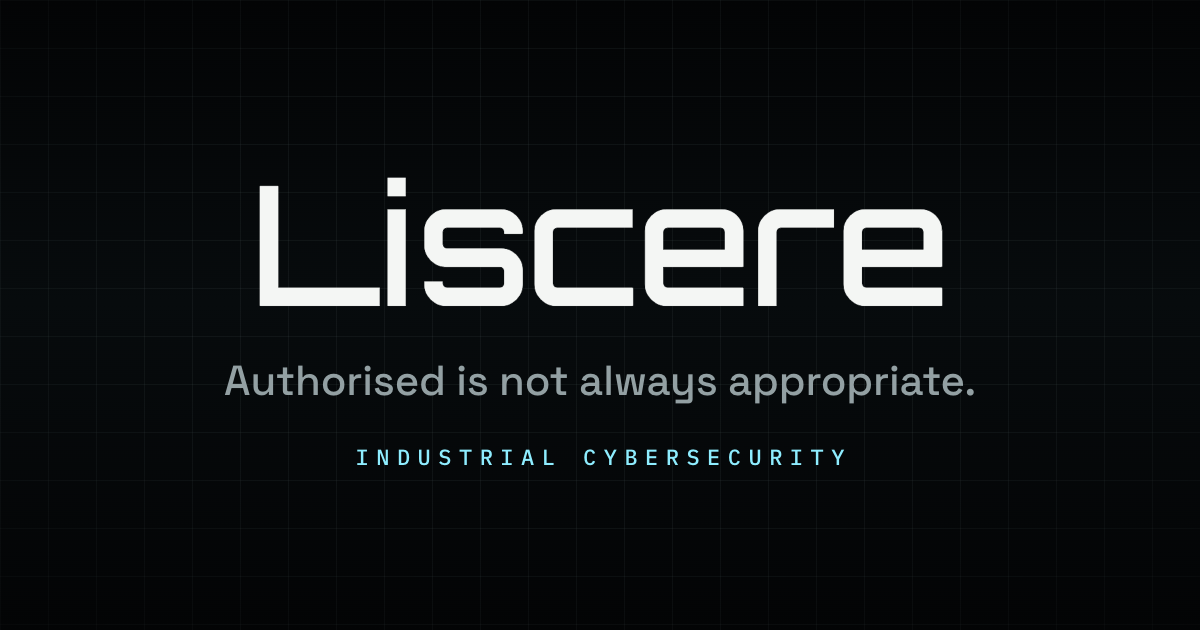
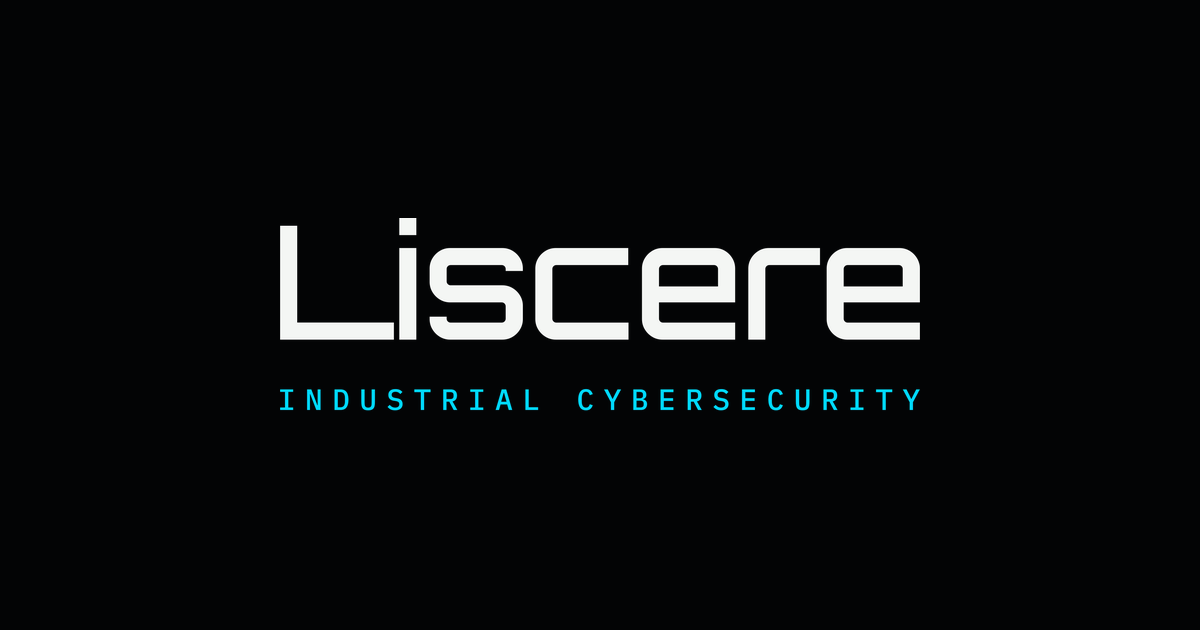
brand: migrate site to Signal Cyan #00D9FF (Brand Book v1.0)

diff --git a/assets/css/styles.css b/assets/css/styles.css
@@ -6,7 +6,7 @@
   --quiet: #465257;
   --line: rgba(207, 242, 245, 0.13);
   --line-strong: rgba(207, 242, 245, 0.28);
-  --cyan: #8eedff;
+  --cyan: #00d9ff;
   --green: #66f4a4;
   --amber: #ffc35c;
   --red: #ff656d;
@@ -177,7 +177,7 @@ p {
 
 .section-dots a.active {
   background: var(--cyan);
-  box-shadow: 0 0 20px rgba(142, 237, 255, 0.55);
+  box-shadow: 0 0 20px rgba(0, 217, 255, 0.55);
   transform: scale(1.45);
 }
 
@@ -296,7 +296,7 @@ h2 {
 /* INPUTS: industrial commands flowing in toward the title (white-cyan, low opacity) */
 .hero-in {
   fill: none;
-  stroke: rgb(150, 230, 246);
+  stroke: #4de6ff;
   stroke-linecap: round;
   vector-effect: non-scaling-stroke;
   opacity: 0;
@@ -701,7 +701,7 @@ h2 {
   padding: 0.58rem 0.9rem;
   border: 1px solid var(--line-strong);
   border-radius: 12px;
-  background: rgba(142, 237, 255, 0.07);
+  background: rgba(0, 217, 255, 0.07);
   color: var(--ink);
   font-family: var(--mono);
   font-size: clamp(0.9rem, 1.35vw, 1.12rem);
@@ -759,7 +759,7 @@ h2 {
 
 .carousel-arrow:hover {
   border-color: var(--cyan);
-  background: rgba(142, 237, 255, 0.12);
+  background: rgba(0, 217, 255, 0.12);
 }
 
 .carousel-arrow:active {
@@ -837,9 +837,9 @@ a.shift-step {
 
 a.shift-step:hover,
 a.shift-step:focus-visible {
-  border-color: rgba(142, 237, 255, 0.45);
-  background: rgba(142, 237, 255, 0.06);
-  box-shadow: 0 0 40px rgba(142, 237, 255, 0.08);
+  border-color: rgba(0, 217, 255, 0.45);
+  background: rgba(0, 217, 255, 0.06);
+  box-shadow: 0 0 40px rgba(0, 217, 255, 0.08);
   outline: none;
 }
 
@@ -1170,16 +1170,16 @@ a.shift-step:focus-visible .shift-source {
 
 /* primary: solid cyan (no green), with a cyan glow that lifts on hover */
 .primary-cta {
-  border: 1px solid rgba(142, 237, 255, 0.55);
+  border: 1px solid rgba(0, 217, 255, 0.55);
   background: var(--cyan);
   color: #03100b;
-  box-shadow: 0 0 24px rgba(142, 237, 255, 0.28);
+  box-shadow: 0 0 24px rgba(0, 217, 255, 0.28);
 }
 
 .primary-cta:hover {
   transform: translateY(-2px);
-  background: #a8f1ff;
-  box-shadow: 0 6px 32px rgba(142, 237, 255, 0.55);
+  background: #4de6ff;
+  box-shadow: 0 6px 32px rgba(0, 217, 255, 0.55);
 }
 
 .secondary-cta {
@@ -1190,8 +1190,8 @@ a.shift-step:focus-visible .shift-source {
 
 .secondary-cta:hover {
   transform: translateY(-2px);
-  border-color: rgba(142, 237, 255, 0.5);
-  background: rgba(142, 237, 255, 0.08);
+  border-color: rgba(0, 217, 255, 0.5);
+  background: rgba(0, 217, 255, 0.08);
   color: var(--ink);
 }
 
@@ -1721,9 +1721,9 @@ a.paper-card {
 a.paper-card:hover,
 a.paper-card:focus-visible {
   transform: translateY(-4px);
-  border-color: rgba(142, 237, 255, 0.5);
-  background: rgba(142, 237, 255, 0.06);
-  box-shadow: 0 18px 50px rgba(0, 0, 0, 0.35), 0 0 40px rgba(142, 237, 255, 0.08);
+  border-color: rgba(0, 217, 255, 0.5);
+  background: rgba(0, 217, 255, 0.06);
+  box-shadow: 0 18px 50px rgba(0, 0, 0, 0.35), 0 0 40px rgba(0, 217, 255, 0.08);
   outline: none;
 }
 
